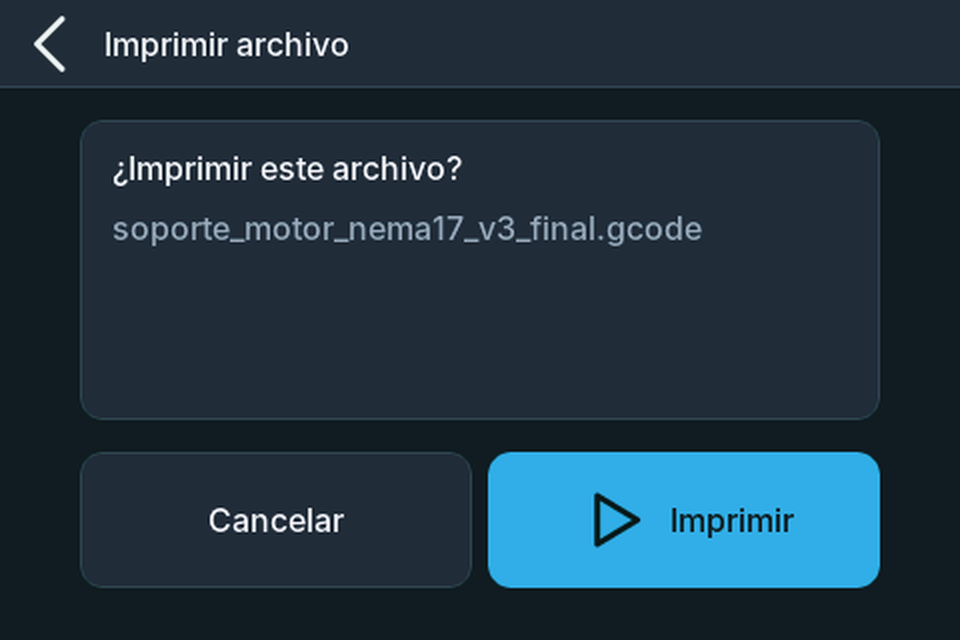
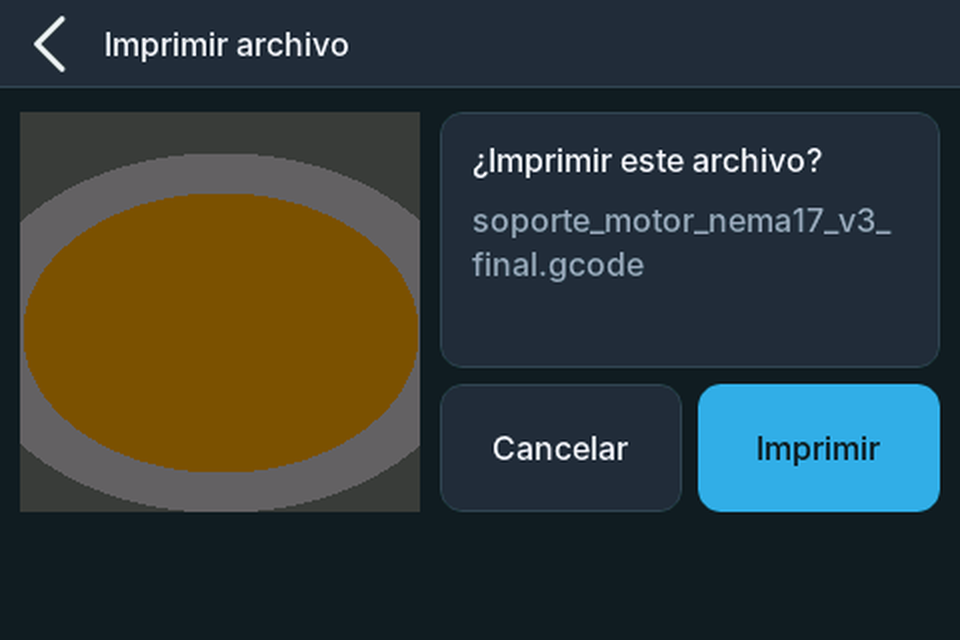
Etapa 4: miniatura (solo lectura) al elegir el archivo a imprimir
Claude-Session: https://claude.ai/code/session_01Ss4jsZAwNvPgtGy55cxiqB

diff --git a/Marlin/src/lcd/extui/mks_ui/arquis_files.cpp b/Marlin/src/lcd/extui/mks_ui/arquis_files.cpp
@@ -27,10 +27,78 @@
 #include "arquis_files.h"
 #include "arquis_files_view.h"
 #include "draw_ui.h"
+#include "tft_lvgl_configuration.h"      // public_buf, bmp_public_buf
+#include "SPI_TFT.h"
+#include "../../../sd/cardreader.h"
 
 extern lv_group_t *g;
+bool have_pre_pic(char *path);      // draw_print_file.cpp (comprobacion original: el archivo tiene ";simage:" en su inicio)
 
 static lv_event_cb_t ok_handler, cancel_handler;
+
+// ---- Miniatura (solo lectura) ---------------------------------------------------------------------------------------------------
+// Mismo formato y misma lectura que gcode_preview() de draw_ui.cpp (";gimage:", 200 filas de 809 bytes, RGB565 en hexadecimal), pero:
+//  - NO escribe en la flash SPI ni inicia la impresion (eso lo hace la interfaz original al pulsar Imprimir);
+//  - cierra el archivo despues de cada fila (un archivo abierto haria que Marlin lo trate como "impresion pausada").
+#if HAS_GCODE_PREVIEW
+  #define THUMB_ROWS     200
+  #define THUMB_LINE     809UL      // bytes por fila en el G-code (el mismo valor fijo que usa la interfaz original)
+  #define ROWS_PER_POLL  2
+
+  static bool     thumb_active, thumb_found;
+  static uint16_t thumb_row;
+  static uint32_t thumb_start;
+
+  static void thumb_stop() { thumb_active = false; }
+
+  // Busca ";gimage:" avanzando 392 bytes por bloque de 400 (el solape evita perder la marca si cae entre dos bloques).
+  static bool thumb_locate() {
+    uint32_t pos = 0;
+    for (uint16_t guard = 0; guard < 400; ++guard) {                  // 400 * 392 B = 156 KB como maximo
+      card.setIndex(pos);
+      const int br = card.read(public_buf, 400);
+      if (br <= 0) return false;
+      public_buf[br < 512 ? br : 512] = 0;
+      const char *p1 = strstr((char *)public_buf, ";gimage:");
+      if (p1) { thumb_start = pos + (uint32_t)(p1 - (const char *)public_buf); return true; }
+      if (br < 400) return false;
+      pos += 392;
+    }
+    return false;
+  }
+
+  static void thumb_draw_row() {
+    char *cur_name = strrchr(list_file.file_name[sel_id], '/');
+    card.openFileRead(cur_name);
+    if (!card.isFileOpen()) { thumb_stop(); return; }
+    if (!thumb_found) {
+      thumb_found = thumb_locate();
+      if (!thumb_found) { card.closefile(); thumb_stop(); return; }
+    }
+    card.setIndex(thumb_start + THUMB_LINE * thumb_row + 8);
+    uint16_t j = 0;
+    for (uint8_t k = 0; k < 2; ++k) {                                 // 2 lecturas de 400 caracteres = 400 bytes = 200 pixeles
+      card.read(public_buf, 400);
+      for (uint16_t i = 0; i < 400; i += 2, ++j)
+        bmp_public_buf[j] = ascii2dec_test((char *)&public_buf[i]) << 4 | ascii2dec_test((char *)&public_buf[i + 1]);
+    }
+    card.closefile();
+    uint16_t *px = (uint16_t *)bmp_public_buf;
+    for (uint16_t i = 0; i < 200; ++i) if (px[i] == 0x0000) px[i] = ARQ_COL_BG.full;   // transparente -> fondo de la pantalla
+    SPI_TFT.setWindow(ARQ_CONFIRM_THUMB_X, ARQ_CONFIRM_THUMB_Y + thumb_row, ARQ_CONFIRM_THUMB_S, 1);
+    SPI_TFT.tftio.WriteSequence(px, 200);
+    if (++thumb_row >= THUMB_ROWS) thumb_stop();
+  }
+
+  void arq_files_poll() {
+    if (!thumb_active) return;
+    // Solo mientras esta en pantalla la confirmacion: al pulsar Imprimir o Cancelar el estado cambia y se detiene
+    if (disp_state != DIALOG_UI || uiCfg.dialogType != DIALOG_TYPE_PRINT_FILE) { thumb_stop(); return; }
+    for (uint8_t n = 0; n < ROWS_PER_POLL && thumb_active; ++n) thumb_draw_row();
+  }
+#else
+  void arq_files_poll() {}
+#endif
 
 static void confirm_cb(lv_obj_t *obj, lv_event_t event) {
   if (event != LV_EVENT_RELEASED) return;
@@ -41,9 +109,17 @@ static void confirm_cb(lv_obj_t *obj, lv_event_t event) {
 void arq_print_confirm_draw(lv_obj_t *scr, const char *file_name, lv_event_cb_t ok_cb, lv_event_cb_t cancel_cb) {
   ok_handler = ok_cb; cancel_handler = cancel_cb;
   arq_screen_apply(scr);
-  arq_confirm_build(scr, confirm_cb, file_name);
+  bool has_thumb = false;
+  #if HAS_GCODE_PREVIEW
+    thumb_stop();
+    has_thumb = have_pre_pic(list_file.file_name[sel_id]);          // comprobacion original del explorador de MKS (lee 1 KB del archivo)
+  #endif
+  arq_confirm_build(scr, confirm_cb, file_name, has_thumb);
   #if HAS_ROTARY_ENCODER
     if (gCfgItems.encoder_enable) arq_group_add_clickables(g, scr);
+  #endif
+  #if HAS_GCODE_PREVIEW
+    thumb_row = 0; thumb_found = false; thumb_active = has_thumb;
   #endif
 }
 

diff --git a/herramientas/arquis_ui/sim/arquis_sim.cpp b/herramientas/arquis_ui/sim/arquis_sim.cpp
@@ -29,6 +29,7 @@ static void flush_cb(lv_disp_drv_t *drv, const lv_area_t *a, lv_color_t *c) {
   lv_disp_flush_ready(drv);
 }
 static void run(int n = 20) { for (int i = 0; i < n; ++i) { lv_tick_inc(10); lv_task_handler(); } }
+static int g_thumb_x = 2, g_thumb_y = 36;
 static int g_thumb_pct = -1;   // >= 0: simula la miniatura del G-code que la interfaz original pinta fuera de LVGL (x 2, y 36, 200x200)
 static void paint_thumb(int pct) {
   const int line = 200 - 200 * pct / 100;
@@ -38,7 +39,7 @@ static void paint_thumb(int pct) {
       uint16_t c = d2 < 70 * 70 ? 0xFD20 : d2 < 90 * 90 ? 0xC618 : 0x7BEF;       // "pieza" naranja con borde gris
       if (y < line) c = (c >> 1) & 0x7BEF;                                         // pendiente: atenuado
       if (y == line && pct < 100) c = 0x05BF;                                      // linea de altura
-      fb[(36 + y) * ARQ_W + 2 + x] = c;
+      fb[(g_thumb_y + y) * ARQ_W + g_thumb_x + x] = c;
     }
 }
 static void dump(const char *name) {
@@ -164,7 +165,7 @@ static arq_files_model_t fmodel(int n, uint8_t mask, bool up, bool down, bool no
   arq_files_model_t m; memset(&m, 0, sizeof(m)); m.n = n; m.dir_mask = mask; m.can_up = up; m.can_down = down; m.no_card = nocard; m.title = title;
   for (int i = 0; i < ARQ_FILE_ROWS; ++i) m.name[i] = fnames[i]; return m; }
 static void files_screen(const arq_files_model_t &m, const char *shot) { lv_obj_t *s = new_screen(); arq_files_build(s, ccb); arq_files_update(&m); if (shot) dump(shot); }
-static void confirm_screen(const char *file, const char *shot) { lv_obj_t *s = new_screen(); arq_confirm_build(s, ccb, file); if (shot) dump(shot); }
+static void confirm_screen(const char *file, const char *shot, bool thumb = false) { lv_obj_t *s = new_screen(); arq_confirm_build(s, ccb, file, thumb); if (shot) { if (thumb) { g_thumb_x = ARQ_CONFIRM_THUMB_X; g_thumb_y = ARQ_CONFIRM_THUMB_Y; g_thumb_pct = 0; } dump(shot); g_thumb_pct = -1; g_thumb_x = 2; g_thumb_y = 36; } }
 
 // ---- Componentes y iconos ------------------------------------------------------------------------------------------------------
 static arq_temp_tile_t c_t1, c_t2, c_t3, c_t4;
@@ -564,7 +565,7 @@ static void tests() {
         c_last = -1; tap(20, 22); CHECK(c_last == ARQ_FLID_BACK, "explorador: Atras");
         arq_files_model_t m2 = fmodel(3, 0, false, false); arq_files_update(&m2); run(); pick_last = -9; tap(200, 52 + 4 * 42 + 19); CHECK(pick_last == -1, "explorador: una fila sin archivo no se puede tocar");
         arq_files_model_t m3 = fmodel(6, 0, false, true); arq_files_update(&m3); run(); c_last = -1; tap(444, 100); CHECK(c_last == -1, "explorador: sin pagina anterior el boton esta deshabilitado");
-        confirm_screen("soporte.gcode", nullptr); c_count = 0; tap(140, 270); CHECK(c_count == 1 && c_last == ARQ_PC_CANCEL, "confirmar: Cancelar"); c_count = 0; tap(340, 270); CHECK(c_count == 1 && c_last == ARQ_PC_OK, "confirmar: Imprimir");
+        confirm_screen("soporte.gcode", nullptr, true); c_count = 0; tap(280, 240); CHECK(c_count == 1 && c_last == ARQ_PC_CANCEL, "confirmar: Cancelar"); c_count = 0; tap(420, 240); CHECK(c_count == 1 && c_last == ARQ_PC_OK, "confirmar: Imprimir");
         new_screen(); run(); } }
   }
 
@@ -624,7 +625,8 @@ int main(int argc, char **argv) {
     files_screen(fmodel(4, 1 << 2, true, false, false, "pruebas"), "fil_2_carpeta");
     files_screen(fmodel(0, 0, false, false, true), "fil_3_sin_sd");
     files_screen(fmodel(0, 0, false, false, false, "pruebas"), "fil_4_vacia");
-    confirm_screen("soporte_motor_nema17_v3_final.gcode", "fil_5_confirmar");
+    confirm_screen("soporte_motor_nema17_v3_final.gcode", "fil_5_confirmar", true);
+    confirm_screen("tapa_caja.gcode", "fil_6_confirmar_sin_miniatura", false);
   }
   tests();
   return fails ? 1 : 0;

diff --git a/Marlin/src/lcd/extui/mks_ui/arquis_files_view.cpp b/Marlin/src/lcd/extui/mks_ui/arquis_files_view.cpp
@@ -136,14 +136,20 @@ int8_t arq_files_pick(lv_obj_t *o, const lv_point_t *p) {
   return (int8_t)i;
 }
 
-void arq_confirm_build(lv_obj_t *scr, lv_event_cb_t cb, const char *file_name) {
+void arq_confirm_build(lv_obj_t *scr, lv_event_cb_t cb, const char *file_name, bool has_thumb) {
   arq_theme_init();
   arq_header_t hd;
   arq_header_create(&hd, scr, "Imprimir archivo", false, cb, ARQ_PC_CANCEL);
-  lv_obj_t *card = arq_card_create(scr, 40, 60, ARQ_W - 80, 150, ARQ_LAYOUT_DIALOG, ARQ_BTN_SECONDARY, nullptr, 0);
+  if (!has_thumb) {                                   // recuadro del mismo tamano que la miniatura
+    lv_obj_t *ph = arq_card_create(scr, ARQ_CONFIRM_THUMB_X, ARQ_CONFIRM_THUMB_Y, ARQ_CONFIRM_THUMB_S, ARQ_CONFIRM_THUMB_S, ARQ_LAYOUT_TILE, ARQ_BTN_SECONDARY, nullptr, 0);
+    arq_card_set_icon(ph, &arq_icon_file, ARQ_TINT_MUTED);
+    arq_card_set_title(ph, "Sin miniatura", ARQ_TEXT_MUTED);
+  }
+  const lv_coord_t rx = ARQ_CONFIRM_THUMB_X + ARQ_CONFIRM_THUMB_S + ARQ_GAP + 2, rw = ARQ_W - ARQ_MARGIN - rx;
+  lv_obj_t *card = arq_card_create(scr, rx, ARQ_CONFIRM_THUMB_Y, rw, 128, ARQ_LAYOUT_DIALOG, ARQ_BTN_SECONDARY, nullptr, 0);
   arq_card_set_title(card, "\xC2\xBFImprimir este archivo?", ARQ_TEXT_BODY);
   arq_card_set_sub(card, file_name, ARQ_TEXT_MUTED);
-  const lv_coord_t bw = (ARQ_W - 80 - ARQ_GAP) / 2;
-  arq_button_create(scr, 40, 226, bw, 68, nullptr, "Cancelar", ARQ_BTN_SECONDARY, cb, ARQ_PC_CANCEL);
-  arq_button_create(scr, 40 + bw + ARQ_GAP, 226, bw, 68, &arq_icon_play, "Imprimir", ARQ_BTN_PRIMARY, cb, ARQ_PC_OK);
+  const lv_coord_t by = ARQ_CONFIRM_THUMB_Y + 128 + ARQ_GAP, bh = ARQ_CONFIRM_THUMB_Y + ARQ_CONFIRM_THUMB_S - by, bw = (rw - ARQ_GAP) / 2;
+  arq_button_create(scr, rx, by, bw, bh, nullptr, "Cancelar", ARQ_BTN_SECONDARY, cb, ARQ_PC_CANCEL);
+  arq_button_create(scr, rx + bw + ARQ_GAP, by, rw - bw - ARQ_GAP, bh, nullptr, "Imprimir", ARQ_BTN_PRIMARY, cb, ARQ_PC_OK);
 }

diff --git a/herramientas/arquis_ui/stub/draw_ui.h b/herramientas/arquis_ui/stub/draw_ui.h
@@ -2,7 +2,7 @@
 #pragma once
 #include <lvgl.h>
 #include "../../../inc/MarlinConfigPre.h"
-typedef enum { MAIN_UI, PRINT_READY_UI, PRINTING_UI, PRINT_FILE_UI, CANCEL_OBJECT_UI, PREHEAT_UI, FAN_UI, MOVE_MOTOR_UI, EXTRUSION_UI, OPERATE_UI } DISP_STATE;
+typedef enum { MAIN_UI, PRINT_READY_UI, PRINTING_UI, DIALOG_UI, PRINT_FILE_UI, CANCEL_OBJECT_UI, PREHEAT_UI, FAN_UI, MOVE_MOTOR_UI, EXTRUSION_UI, OPERATE_UI } DISP_STATE;
 typedef struct { DISP_STATE _disp_state[100]; int _disp_index; } DISP_STATE_STACK;
 extern DISP_STATE_STACK disp_state_stack;
 extern DISP_STATE disp_state;
@@ -16,6 +16,7 @@ typedef struct UI_Config_Struct {
   uint8_t extruSpeed;
   static constexpr uint8_t eSpeedH = 20, eSpeedN = 10, eSpeedL = 1;
   uint8_t print_state;
+  uint8_t dialogType;
   uint16_t moveSpeed, moveSpeed_bak;
   float move_dist;
   int16_t hotendTargetTempBak;
@@ -42,4 +43,8 @@ lv_obj_t* lv_btn_create(lv_obj_t *par, lv_coord_t x, lv_coord_t y, lv_coord_t w,
 
 extern char public_buf_l[30];
 void lv_draw_preHeat(); void lv_draw_extrusion(); void lv_draw_filament_change(); void lv_draw_change_speed(); void lv_draw_baby_stepping(); void update_spi_flash();
-enum { DIALOG_TYPE_PRINT_FILE = 1 }; void lv_draw_dialog(uint8_t type); void lv_draw_media_select(); void lv_clear_print_file(); typedef struct { uint8_t dummy; } disp_stub_t;
+enum { DIALOG_TYPE_PRINT_FILE = 1 };
+#include "print_file_types.h"    // LIST_FILE/DIR_OFFSET REALES (extraidos de draw_print_file.h por check_marlin_api.sh)
+extern uint8_t sel_id; bool have_pre_pic(char *path); int ascii2dec_test(char *ascii);
+#define HAS_GCODE_PREVIEW 1
+void lv_draw_dialog(uint8_t type); void lv_draw_media_select(); void lv_clear_print_file(); typedef struct { uint8_t dummy; } disp_stub_t;

diff --git a/Marlin/src/lcd/extui/mks_ui/arquis_files_view.h b/Marlin/src/lcd/extui/mks_ui/arquis_files_view.h
@@ -49,6 +49,11 @@ void   arq_files_update(const arq_files_model_t *m);
 void   arq_files_forget();
 int8_t arq_files_pick(lv_obj_t *o, const lv_point_t *p);      // fila bajo el punto (coord. de pantalla); -1 = ninguna
 
-// Confirmacion de "Imprimir archivo": cabecera con Atras/Cancelar, nombre del archivo y botones [Cancelar] [Imprimir] (5 objetos)
+// Confirmacion de "Imprimir archivo": cabecera con Atras/Cancelar, nombre del archivo y botones [Cancelar] [Imprimir].
+// Si el archivo tiene miniatura, la zona ARQ_CONFIRM_THUMB_* (200 x 200) queda LIBRE de objetos LVGL: la miniatura se pinta directamente
+// en la pantalla (arquis_files.cpp), igual que hace la interfaz original. Sin miniatura se muestra un recuadro "Sin miniatura".
+#define ARQ_CONFIRM_THUMB_X 10
+#define ARQ_CONFIRM_THUMB_Y 56
+#define ARQ_CONFIRM_THUMB_S 200
 enum { ARQ_PC_CANCEL = 11, ARQ_PC_OK };
-void arq_confirm_build(lv_obj_t *scr, lv_event_cb_t cb, const char *file_name);
+void arq_confirm_build(lv_obj_t *scr, lv_event_cb_t cb, const char *file_name, bool has_thumb);

diff --git a/herramientas/arquis_ui/stub/sd/cardreader.h b/herramientas/arquis_ui/stub/sd/cardreader.h
@@ -4,5 +4,5 @@ struct card_flags_stub { bool sdprintdone; };
 class CardReader { public:
   static card_flags_stub flag;
   static bool isFileOpen(); static char* longest_filename(); static uint8_t percentDone(); static uint32_t getIndex();
-  static bool isMounted(); static void cdup(); static void pauseSDPrint(); static bool isPrinting(); static void abortFilePrintSoon();
+  static bool isMounted(); static void openFileRead(const char * const path, const uint8_t subcall=0); static void closefile(const bool store_location=false); static int16_t read(void *buf, uint16_t nbyte); static void setIndex(const uint32_t index); static void cdup(); static void pauseSDPrint(); static bool isPrinting(); static void abortFilePrintSoon();
 }; extern CardReader card;

diff --git a/Marlin/src/lcd/extui/mks_ui/draw_ui.cpp b/Marlin/src/lcd/extui/mks_ui/draw_ui.cpp
@@ -42,6 +42,7 @@
 
 #if ENABLED(ARQUIS_UI)
   #include "arquis_print.h"
+  #include "arquis_files.h"
 #endif
 
 #if ENABLED(POWER_LOSS_RECOVERY)
@@ -747,6 +748,7 @@ void print_time_run() {
 void GUI_RefreshPage() {
   #if ENABLED(ARQUIS_UI)
     arq_print_poll();   // fin de impresion desde cualquier pantalla (ver arquis_print.cpp)
+    arq_files_poll();   // miniatura de la confirmacion de "Imprimir archivo" (ver arquis_files.cpp)
   #endif
   if ((systick_uptime_millis % 1000) == 0) temps_update_flag = true;
   if ((systick_uptime_millis % 3000) == 0) printing_rate_update_flag = true;

diff --git a/herramientas/arquis_ui/stub/SPI_TFT.h b/herramientas/arquis_ui/stub/SPI_TFT.h
@@ -1,0 +1,6 @@
+// STUB: firmas reales de SPI_TFT.h / tft_io.h (WriteSequence(uint16_t*, uint16_t); setWindow(x, y, ancho, alto))
+#pragma once
+#include <stdint.h>
+struct TFT_IO_stub { static void WriteSequence(uint16_t *Data, uint16_t Count); };
+class TFT { public: TFT_IO_stub tftio; void setWindow(uint16_t x, uint16_t y, uint16_t with, uint16_t height); };
+extern TFT SPI_TFT;

diff --git a/Marlin/src/lcd/extui/mks_ui/arquis_files.h b/Marlin/src/lcd/extui/mks_ui/arquis_files.h
@@ -31,3 +31,6 @@
 #include <lvgl.h>
 
 void arq_print_confirm_draw(lv_obj_t *scr, const char *file_name, lv_event_cb_t ok_cb, lv_event_cb_t cancel_cb);
+
+// Miniatura del archivo elegido (solo LECTURA): se pinta fila a fila desde GUI_RefreshPage, sin escribir en la flash ni iniciar nada.
+void arq_files_poll();

diff --git a/herramientas/arquis_ui/stub/tft_lvgl_configuration.h b/herramientas/arquis_ui/stub/tft_lvgl_configuration.h
@@ -1,0 +1,5 @@
+// STUB: declaraciones reales de tft_lvgl_configuration.h
+#pragma once
+#include <stdint.h>
+extern uint8_t bmp_public_buf[14 * 1024];
+extern uint8_t public_buf[513];

diff --git a/docs/arquis/ARQUIS_UI_etapa_4.md b/docs/arquis/ARQUIS_UI_etapa_4.md
@@ -63,3 +63,9 @@ Flash: las vistas nuevas miden unos 11 KB de código (Thumb, `-Os`) y los iconos
 - Las cuatro pantallas con paso/estado (Temperatura, Mover, Extrusión y Opciones) dependen de que `uiCfg.*` tenga los valores por defecto de Marlin (`stepHeat`, `move_dist`, `extruStep`…), que se inician en `draw_ui.cpp`.
 - La perilla (encoder) recorre los botones, pero en el explorador y en Cancelar objeto no recorre las filas/objetos (un solo objeto LVGL por lista).
 - Sin miniaturas en la lista de archivos (ver §2).
+
+## 7. Miniatura en "Imprimir archivo" (añadido tras la primera revisión)
+Al elegir un archivo se muestra su miniatura (200 × 200) a la izquierda, con el nombre y los botones Cancelar / Imprimir a la derecha. Si el archivo no trae miniatura se ve un recuadro "Sin miniatura".
+- Es **solo lectura**: usa el mismo formato (`;gimage:`, 200 filas de 809 bytes) y la misma lectura que `gcode_preview()` de la interfaz original, pero no escribe en la flash SPI, no abre el archivo de forma permanente (lo cierra tras cada fila) y no inicia nada. Al pulsar Imprimir la interfaz original vuelve a cargar la miniatura y arranca como siempre.
+- Se pinta fila a fila (2 por pasada de `GUI_RefreshPage`), directamente en la pantalla (como la miniatura de la supervisión); la zona está libre de objetos LVGL.
+- **No verificado en la pantalla real:** cuánto tarda en aparecer con tu SD y tus archivos, y que la miniatura sale con los colores correctos. En el simulador solo se comprobó el diseño y la comprobación de firmas.
